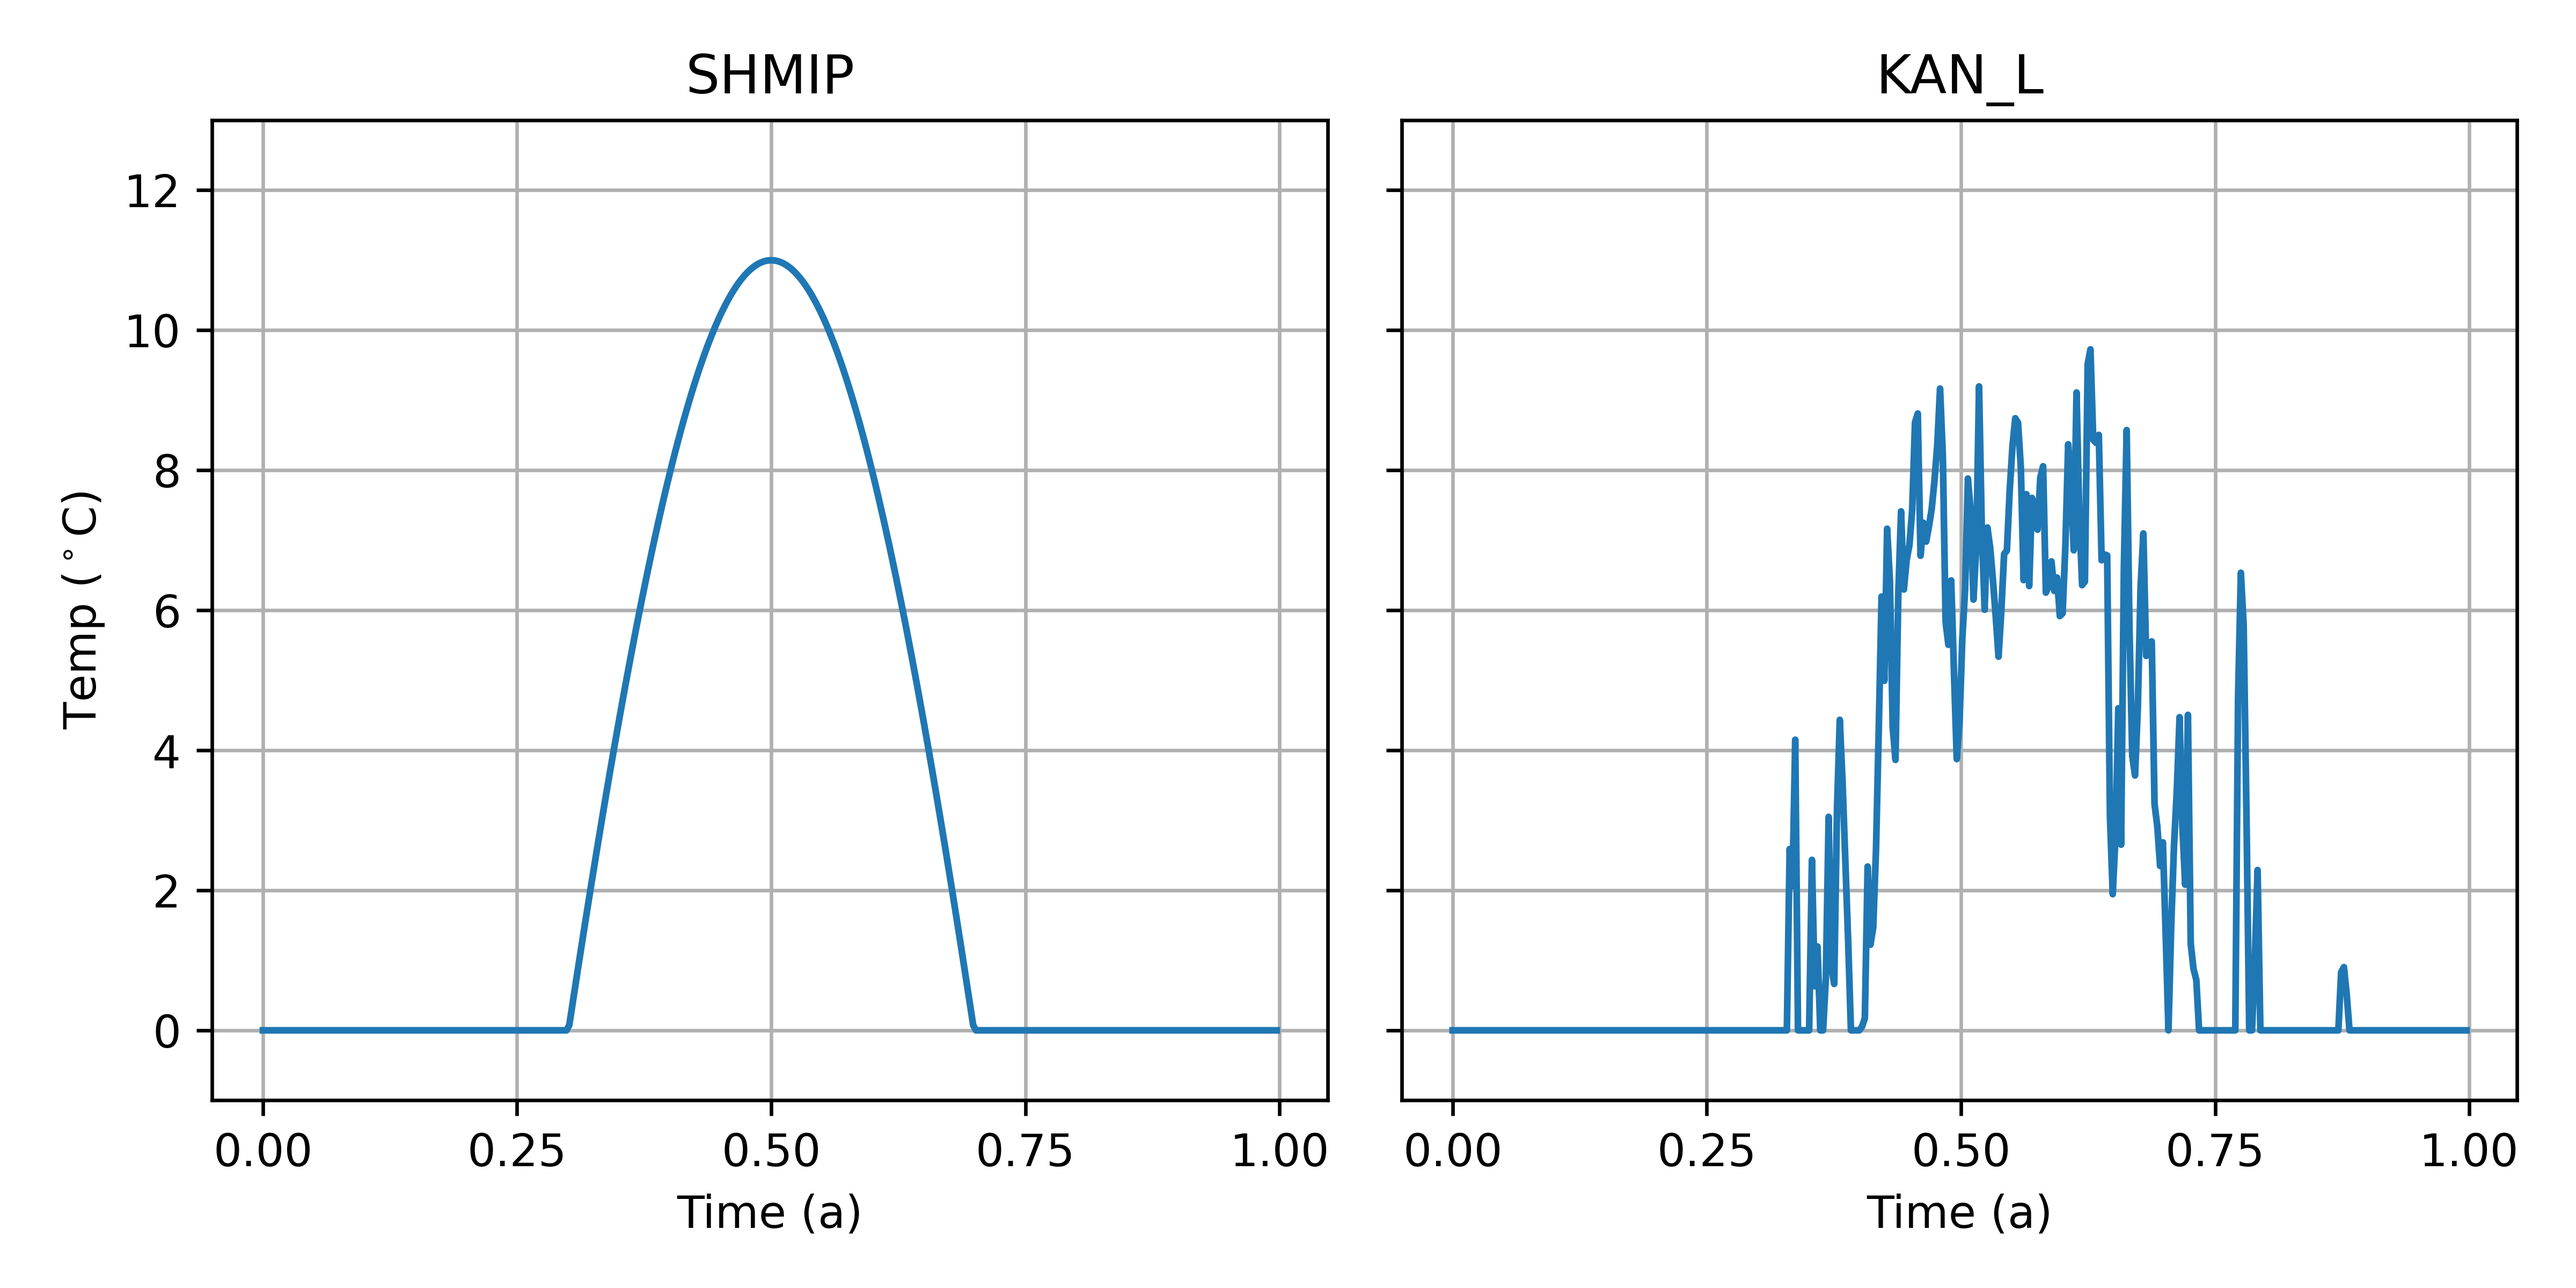
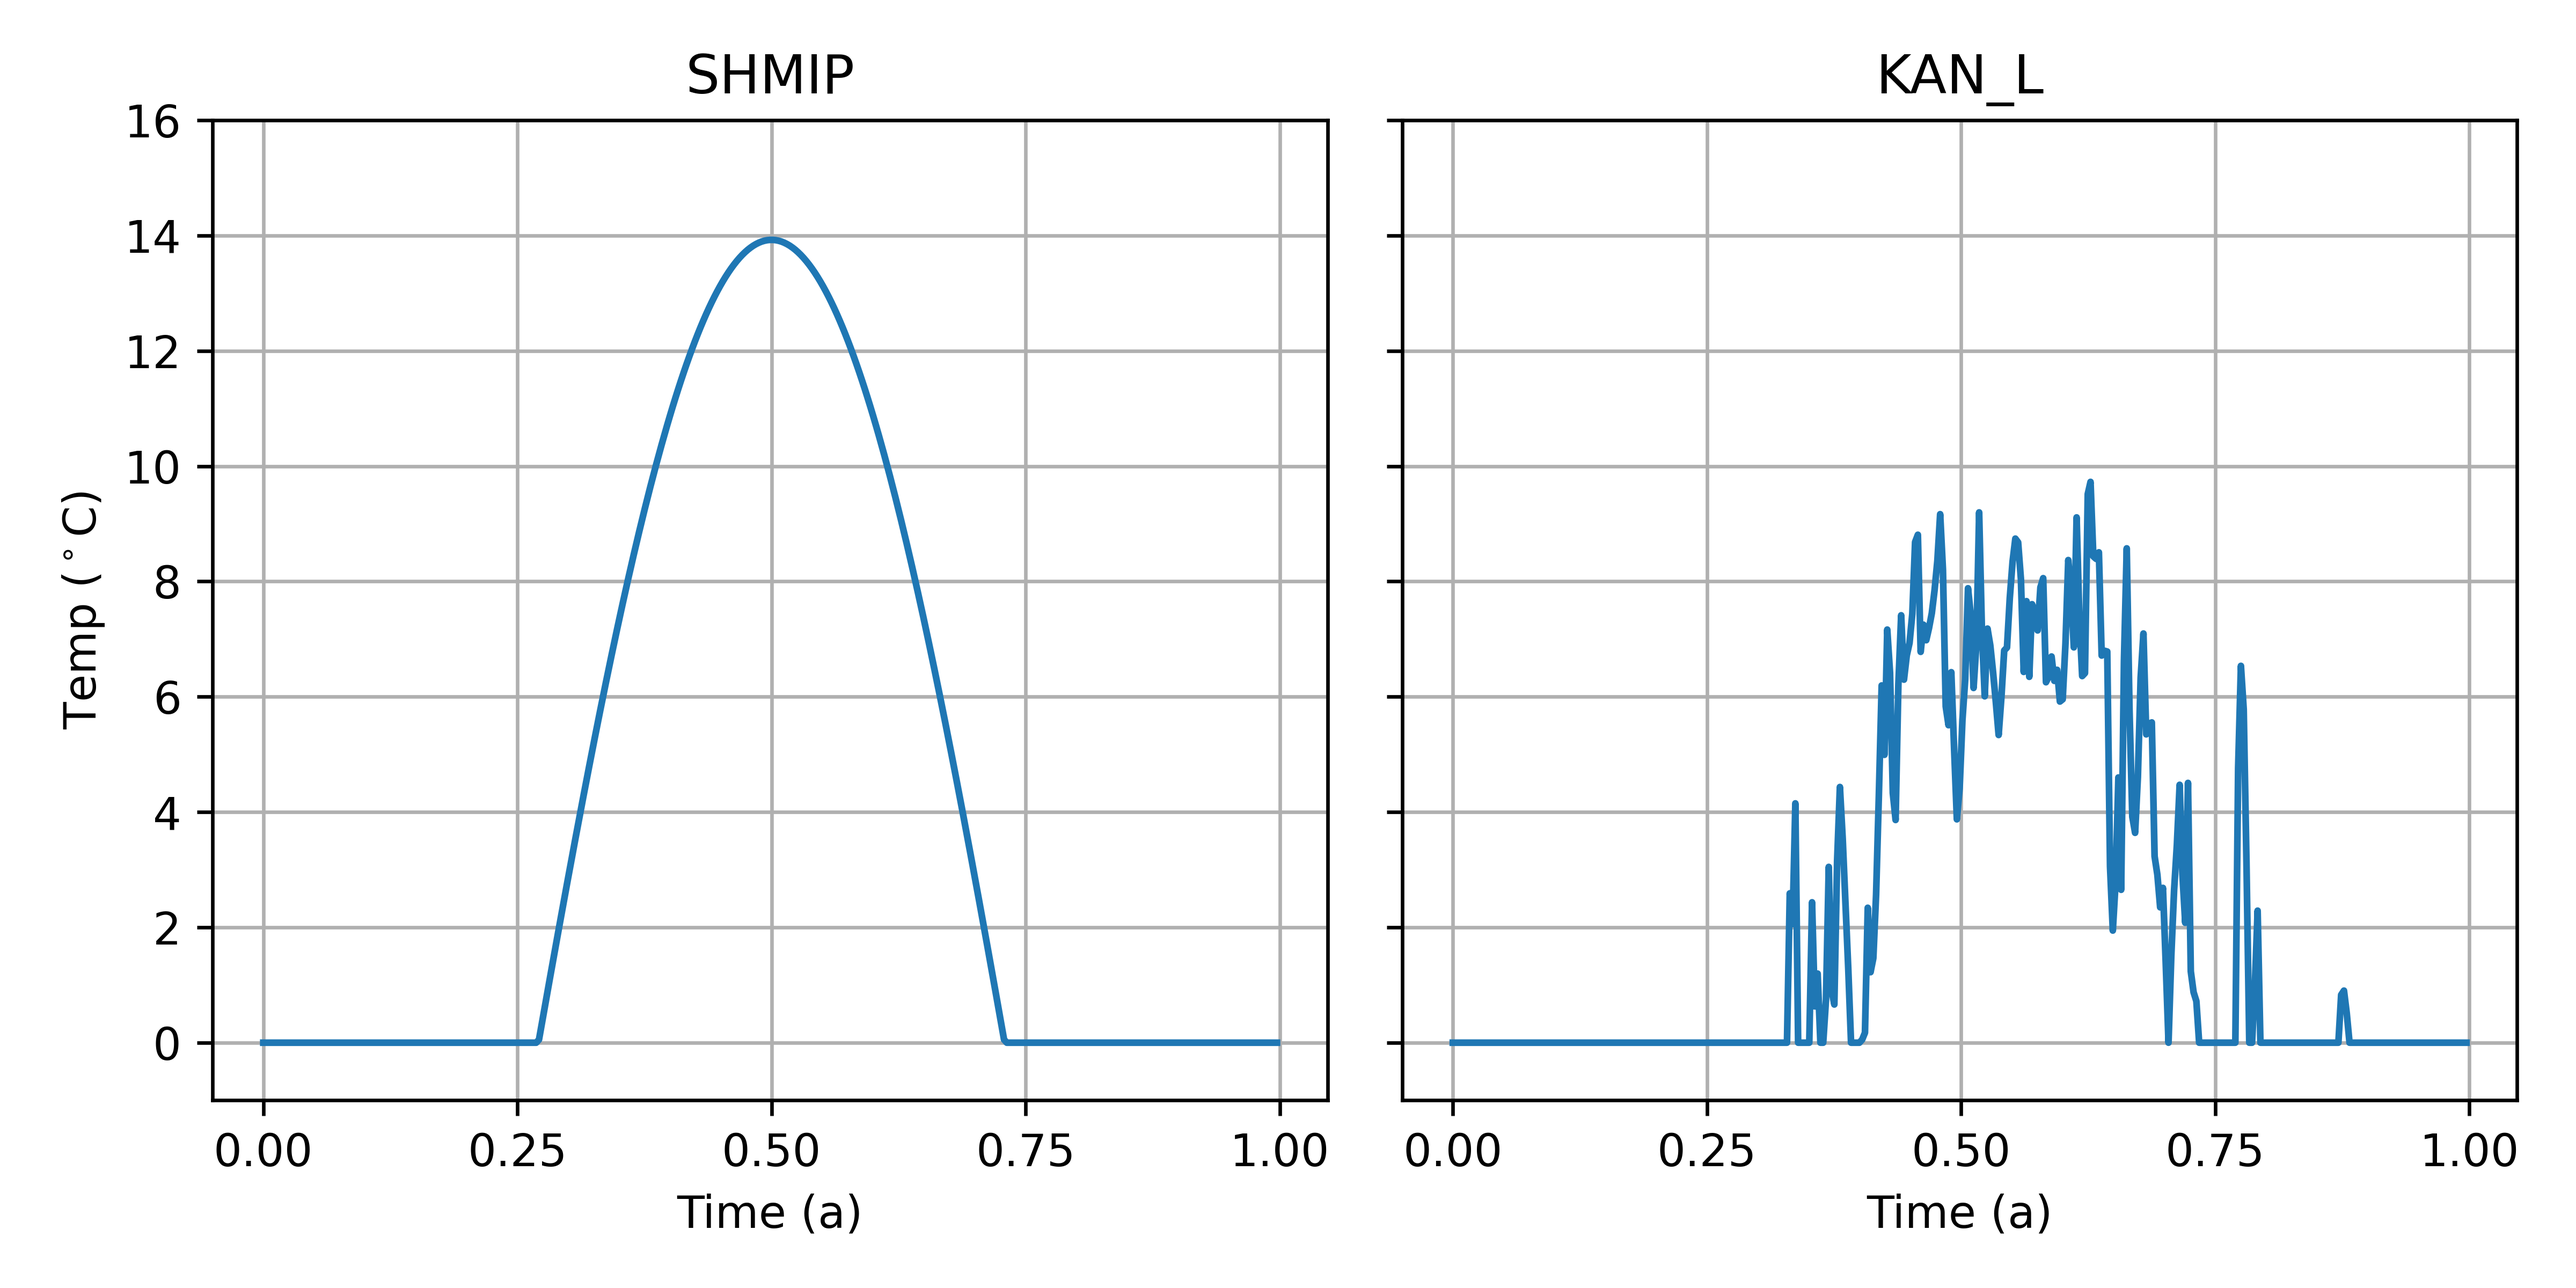
Figures

diff --git a/analysis/plot_domains.py b/analysis/plot_domains.py
@@ -1,0 +1,126 @@
+"""
+Nice 3D plot of bed and surface elevations
+"""
+
+import numpy as np
+from matplotlib import pyplot as plt
+from matplotlib import tri
+from matplotlib.transforms import Bbox
+from matplotlib.gridspec import GridSpec
+import netCDF4 as nc
+import cmocean
+from palettes.code import palettes
+
+dmesh = nc.Dataset('../glads/data/mesh/mesh_04.nc')
+nodes = dmesh['tri/nodes'][:].data.T
+connect = dmesh['tri/connect'][:].data.T.astype(int) - 1
+
+out_trough = nc.Dataset('../glads/02_shmip_forcing_synth_topo/RUN/output_203_seasonal.nc')
+
+
+bed_flat = 350 + 0*nodes[:, 0]
+bed_trough = out_trough['bed'][:].data
+
+surf = 6*(np.sqrt(nodes[:, 0] + 5e3) - np.sqrt(5e3)) + 390
+
+mesh_tri = tri.Triangulation(nodes[:, 0]/1e3, nodes[:, 1]/1e3, connect)
+
+fig = plt.figure(figsize=(7, 4))
+ax1 = fig.add_subplot(1, 2, 1, projection='3d', box_aspect=(100, 25, 1.6*20), elev=20, azim=-120)
+ax2 = fig.add_subplot(1, 2, 2, projection='3d', box_aspect=(100, 25, 1.6*20), elev=20, azim=-120)
+psurf = ax1.plot_trisurf(mesh_tri, surf, cmap=palettes.get_cmap('BlueIce'), vmin=0, vmax=2000, edgecolors=(0, 0, 0, 0.5), linewidths=0.2)
+ax1.plot_trisurf(mesh_tri, bed_flat, cmap=palettes.get_cmap('BrownEarth'), vmin=0, vmax=400)
+ax1.set_xlim([0, 100])
+ax1.set_ylim([0, 25])
+ax1.set_zlim([0, 1950])
+ax1.set_yticks([0, 12.5, 25])
+
+ax1.set_xlabel('x (km)')
+ax1.set_ylabel('y (km)')
+
+cbar = fig.colorbar(psurf, location='bottom', aspect=40, ax=ax1)
+cbar.set_label('Surface elevation (m)')
+
+# ax1.set_position(Bbox.from_bounds(-0.95, -0.1, 1.7, 1.2))
+# ax1.set_position(Bbox.from_bounds(-0.45, 0.05, 2, 1.2))
+
+
+ax2.plot_trisurf(mesh_tri, surf, cmap=palettes.get_cmap('BlueIce'), vmin=0, vmax=2000, edgecolors=(0, 0, 0, 0.5), linewidths=0.2)
+bsurf = ax2.plot_trisurf(mesh_tri, bed_trough, cmap=palettes.get_cmap('BrownEarth'), vmin=0, vmax=400)
+ax2.set_xlim([0, 100])
+ax2.set_ylim([0, 25])
+ax2.set_zlim([0, 1950])
+
+ax2.set_xlabel('x (km)')
+ax2.set_ylabel('y (km)')
+ax2.set_yticks([0, 12.5, 25])
+# ax2.set_position(Bbox.from_bounds(-0.45, 0.05, 2, 1.2))
+
+cbar = fig.colorbar(bsurf, location='bottom', aspect=40, ax=ax2)
+cbar.set_label('Bed elevation (m)')
+
+# plt.tight_layout()
+fig.savefig('shmip_domain')
+
+
+## Plot bed elevation and ice thickness
+
+fig2 = plt.figure(figsize=(7, 3))
+
+gs = GridSpec(3, 2, height_ratios=(10, 100, 100),
+    left=0.1, bottom=0.15, right=0.97, top=0.8,
+    hspace=0.05, wspace=0.075)
+
+axs = np.array([[fig2.add_subplot(gs[i+1,j]) for j in range(2)] for i in range(2)])
+
+bed_cmap = palettes.get_cmap('BrownEarth').reversed()
+thick_cmap = palettes.get_cmap('BlueIce')
+
+bed_pcolor = axs[0, 0].tricontourf(mesh_tri, bed_flat, cmap=bed_cmap, vmin=0, vmax=400, levels=np.arange(0, 450, 50))
+
+thick_pcolor = axs[1, 0].tricontourf(mesh_tri, surf - bed_flat, cmap=thick_cmap, vmin=0, vmax=2000, levels=np.arange(0, 2100, 100))
+
+axs[0, 1].tricontourf(mesh_tri, bed_trough, cmap=bed_cmap, vmin=0, vmax=400, levels=np.arange(0, 450, 50))
+
+axs[1, 1].tricontourf(mesh_tri, surf - bed_trough, cmap=thick_cmap, vmin=0, vmax=2000, levels=np.arange(0, 2100, 100))
+
+for ax in axs.flat:
+    ax.set_aspect('equal')
+    ax.set_xlim([0, 100])
+    ax.set_ylim([0, 25])
+    ax.set_yticks([0, 12.5, 25])
+
+axs[0, 0].set_xticklabels([])
+axs[0, 1].set_xticklabels([])
+
+axs[0, 1].set_yticklabels([])
+axs[1, 1].set_yticklabels([])
+
+axs[0, 0].set_ylabel('y (km)')
+axs[1, 0].set_ylabel('y (km)')
+
+axs[1, 0].set_xlabel('x (km)')
+axs[1, 1].set_xlabel('x (km)')
+
+cax1 = fig2.add_subplot(gs[0, 0])
+cax2 = fig2.add_subplot(gs[0, 1])
+cbar1 = fig2.colorbar(bed_pcolor, cax=cax1, orientation='horizontal')
+cax1.xaxis.tick_top()
+cax1.xaxis.set_label_position('top')
+
+cbar2 = fig2.colorbar(thick_pcolor,cax=cax2, orientation='horizontal')
+cax2.xaxis.tick_top()
+cax2.xaxis.set_label_position('top')
+
+# cticks = np.array(['%d'%z for z in np.arange(0, 2100, 100)])
+# cticks[1::5] = ''
+# cticks[2::5] = ''
+# cticks[3::5] = ''
+# cbar2.ax.set_xticklabels(cticks)
+
+cbar1.set_label('Bed Elevation (m)')
+cbar2.set_label('Thickness (m)')
+
+fig2.savefig('bed_thickness.png', dpi=600)
+
+plt.show()

diff --git a/analysis/plot_pressure_maps_timeseries.py b/analysis/plot_pressure_maps_timeseries.py
@@ -104,7 +104,7 @@ def plot_pressure_maps_timeseries(fnames, figname, tslice=defaults.tslice,
         tt_days = tt_temp[:, 0]
         temp_sl = tt_temp[:, 1]
         lr = -0.005
-        DT = lr*(0 - 390)
+        DT = lr*390
         temp_fun = lambda t: np.maximum(0*t, DT + np.interp(t%1, tt_days/365, temp_sl, left=0, right=0))
     elif melt_forcing=='SHMIP':
         temp_fun = lambda t: np.maximum(-16*np.cos(2*np.pi*t) - 5, 0*t)
@@ -181,8 +181,8 @@ def plot_pressure_maps_timeseries(fnames, figname, tslice=defaults.tslice,
         if ii<n_cases:
             mapax.set_xticklabels([])
         
-        mapax.text(0.025, 0.95, map_alphabet[ii], transform=mapax.transAxes,
-            va='top', ha='left', **text_args)
+        mapax.text(0.95, 0.95, map_alphabet[ii], transform=mapax.transAxes,
+            va='top', ha='right', **text_args)
         xmid, ff_avg = helpers.width_average(nodes, ff[:, tslice])
 
         quantile_95 = lambda x: np.quantile(x, 0.95)
@@ -218,8 +218,8 @@ def plot_pressure_maps_timeseries(fnames, figname, tslice=defaults.tslice,
             mapax.axvline(xb, color='w', linewidth=0.5)
             timeax.axvline(tslice/365, color='k', linewidth=0.5)
 
-            timeax.text(0.025, 0.95, time_alphabet[j], transform=timeax.transAxes,
-            va='top', ha='left', **text_args)
+            timeax.text(0.95, 0.95, time_alphabet[j], transform=timeax.transAxes,
+            va='top', ha='right', **text_args)
 
             if melt_forcing:
                 melt = temp_fun(tt)
@@ -227,7 +227,7 @@ def plot_pressure_maps_timeseries(fnames, figname, tslice=defaults.tslice,
                 ax_right.plot(tt, melt, color='k', linewidth=0.5)
             
             ax_right.set_ylabel('Temp ($^\circ$C)')
-            ax_right.set_ylim([0, 15])
+            ax_right.set_ylim([0, 12])
             ax_right.set_yticks([0, 5, 10, 15])
             timeax.set_zorder(3)
             ax_right.set_zorder(2)

diff --git a/analysis/plot_melt_forcing.py b/analysis/plot_melt_forcing.py
@@ -13,7 +13,8 @@ tt_days = tt_temp[:, 0]
 temp_sl = tt_temp[:, 1]
 
 # SHMIP temp model
-temp_fun = lambda t: -16*np.cos(2*np.pi*t/86400/365) - 5
+DT = 0.0075*390
+temp_fun = lambda t: -16*np.cos(2*np.pi*t/86400/365) - 5 + DT
 
 tt = np.arange(0, 365*86400, 86400)
 tt_a = tt/365/86400
@@ -33,8 +34,8 @@ ax2.grid()
 ax1.set_xticks([0, 0.25, 0.5, 0.75, 1])
 ax2.set_xticks([0, 0.25, 0.5, 0.75, 1])
 
-ax1.set_ylim([-1, 13])
-ax2.set_ylim([-1, 13])
+ax1.set_ylim([-1, 16])
+ax2.set_ylim([-1, 16])
 
 ax1.set_title('SHMIP')
 ax2.set_title('KAN_L')

diff --git a/analysis/make_pressure_figs.py b/analysis/make_pressure_figs.py
@@ -34,7 +34,7 @@ cases = [201, 202, 203, 204, 205]
 pattern = '../glads/02_shmip_forcing_synth_topo/RUN/output_%03d_seasonal.nc'
 fnames = [pattern % caseid for caseid in cases]
 figname = '02_pressure_seasonal.png'
-fig_02 = plot_pressure_maps_timeseries(fnames, figname, tslice=KAN_tslice, Qmin=1, melt_forcing='SHMIP',
+fig_02 = plot_pressure_maps_timeseries(fnames, figname, Qmin=1, melt_forcing='SHMIP',
     t_ticklabels=t_ticklabels[:-1], t_xlabel=t_xlabel, t_ticks=t_ticks[:-1], t_lim=[1+3/12, 1+9/12])
 
 
